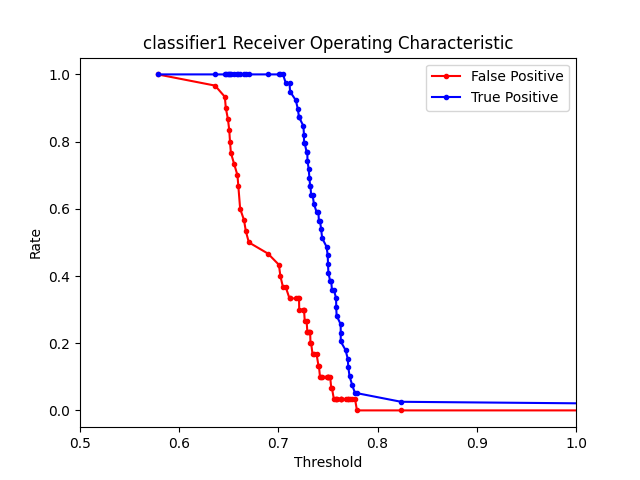
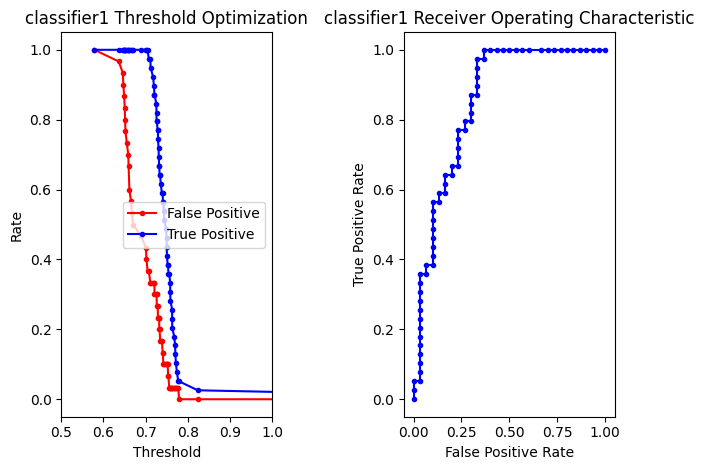
Plotting both a Threshold Optimization and ROC curve

diff --git a/scripts_for_auto_cell_count/roc_curve.py b/scripts_for_auto_cell_count/roc_curve.py
@@ -2,10 +2,10 @@
 ###
 # Author: Tyler Jang, Theo Kataras
 # Date: 1/19/2021
-# 
+# This file creates a threshold optimization and ROC curve plot for each classifier 
 #
-# Inputs: 
-# Outputs: 
+# Inputs: Results csv file containing the probability of each object
+# Outputs: A plot for threshold optimization and a ROC plot.
 ###
 import pandas as pd
 import numpy as np
@@ -57,7 +57,7 @@ results["Label"] = label_col
 # Get the true or false count
 binary_y = np.array(results["points"])
 # Need to mark 2 as a 1 so it is not a multiclass array 
-binary_y[binary_y == 2] = 1
+binary_y[binary_y >= 2] = 1
 
 y_score = np.array(results["Mean"])
 
@@ -74,17 +74,28 @@ print("AUC = " + str(auc))
 #recall = tpr / 
 # F1 = f1_score(binary_y, y_score)
 #print(F1)
-
-plt.title(selectedClassifier + " Receiver Operating Characteristic")
+plt.subplot(1,2,1)
+plt.title(selectedClassifier + " Threshold Optimization")
 plt.plot(thresholds, fpr, color="red", marker=".", label="False Positive")
 plt.plot(thresholds, tpr, color="blue", marker=".", label="True Positive")
 
 # Set x axis limit
 plt.xlim([0.5, 1])
+
 # Axis labels
 plt.xlabel('Threshold')
 plt.ylabel('Rate')
 plt.legend()
-plt.savefig("roc_curve.png")
+
+# Show the ROC Curve
+plt.subplot(1,2,2)
+plt.plot(fpr, tpr, color="blue", marker=".", label="ROC Curve")
+plt.xlabel('False Positive Rate')
+plt.ylabel('True Positive Rate')
+plt.title(selectedClassifier + " Receiver Operating Characteristic")
+
+plt.tight_layout(w_pad=5)
+plt.savefig("roc_curve.png", bbox_inches='tight')
 plt.show()
+
 print("Finished roc_curve.py\n")
